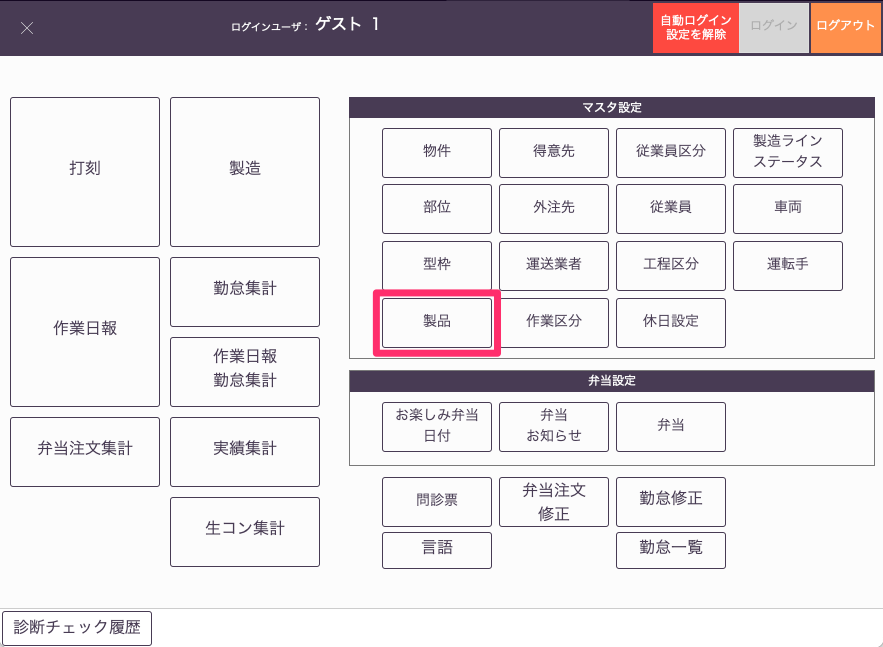
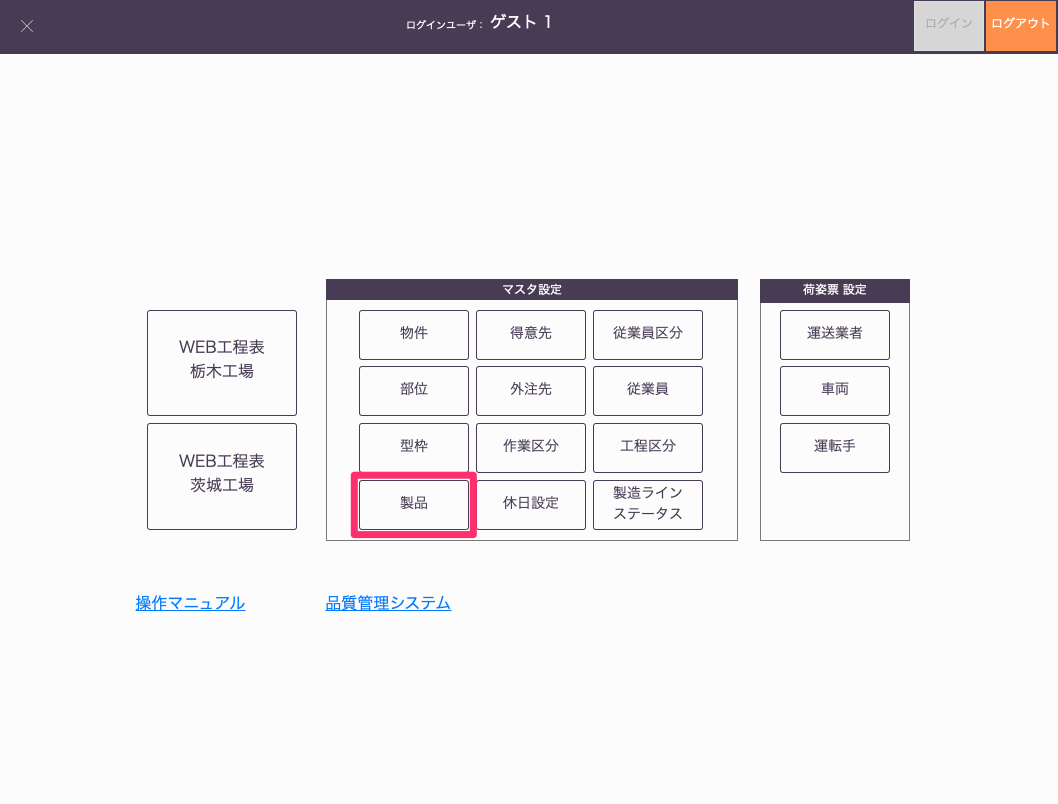
新機能の追加、画像差し替え

diff --git a/docs/process-control/index.md b/docs/process-control/index.md
@@ -21,7 +21,3 @@ has_children: true
 | 総打設量(㎥)               | その日[表示期間]打設予定の生産量の合計                                                                                                                                                                                                                               | 再計算しない   | 基幹システム：製品 > ㎥                                  |                                                                                    | 
 | 総型枠数(P)                | 当月に打設する物件の部位毎の型枠の総数(打設完了したものは減算していく)                                                                                                                                                                                               | 再計算しない   | 基幹システム：物件、部位、型枠                           |                                                                                    | 
 | 回転率                     | 総打設数 / 総型枠数（小数点第1位まで）                                                                                                                                                                                                                               | 再計算しない   |                                                          |                                                                                    | 
-| 計画人口合計<br>(人工)     | 物件の部位に設定されている目標人工 / Pの合計                                                                                                                                                                                                                         | 再計算しない   | 基幹システム：物件 > 物件に対する部位設定 > 目標人工 / P |                                                                                    | 
-| 配置予定人工<br>合計(人工) | 製造ライン毎の従業員(作業量)の総数                                                                                                                                                                                                                                   | 再計算しない   | 基幹システム：従業員 > 工程区分                          |                                                                                    | 
-| 実施人工合計<br>(人工)     | 組置人工数 + 打設人工数                                                                                                                                                                                                                                              | 常に再計算する | 基幹システム：作業日報 > 製造ライン > 打設、組置         |                                                                                    | 
-| 差異(人工)                 | ■未来(当日も含む)<br>・実施人工がある場合<br>　実施人工 ー 計画人工<br>・実施人工がない場合<br>　配置予定人工 ー 計画人工<br>■過去<br>・実施人工がある場合<br>　実施人工 ー 計画人工<br>・実施人工がない場合<br>　実施人工 ー 計画人工(実施人工が0のため、差異も0) | 常に再計算する |                                                          | 計画人工合計から20%離れたら強調表示<br>-n < -20 < 0 < 20 < n<br>青<薄青<白<薄赤<赤 | 

diff --git a/docs/product-registration/other-product/index.md b/docs/product-registration/other-product/index.md
@@ -16,7 +16,7 @@ has_children: false
 
 - 検索、クリア
     
-    検索条件欄で[物件]、[部位]を選択([マスタの事前設定]({% link docs/product-registration/preparation-product/index.md%})が必要)、[製品番号]を入力後「検索」を選択すると該当する製品が絞り込まれます。「クリア」を選択すると絞り込みが解除されます。
+    検索条件欄で[物件]、[部位]を選択([マスタの事前設定]({% link docs/product-registration/preparation-product/index.md%})が必要)、[製品番号]、[製作工場]、[図面番号]を入力後「検索」を選択すると該当する製品が絞り込まれます。「クリア」を選択すると絞り込みが解除されます。
     
 - 新規
     
@@ -28,20 +28,8 @@ has_children: false
     
 - 削除
     
-    削除したい製品([状態]項目が0)を選択して「削除」を選択すると、最右列の[状態]が0から1になります。削除した製品は、製品一覧の検索結果や各システムの参照対象から除外されます。データそのものは削除されません。
-    
-- 復帰
-    
-    復帰したい製品([状態]項目が1)を選択して「復帰」を選択すると、最右列の[状態]が1から0になります。復帰した製品は、再び各システムから製品情報が参照されるようになります。
-    
+    削除したい製品の選択列チェックボックスにチェックを入れた状態で「削除」を選択すると、一覧から非表示になります。削除した製品は、製品一覧の検索結果や各システムの参照対象から除外されます。データそのものは削除されません。
+
 - 履歴
     
-    過去の変更履歴(直接編集、新規、複製、削除、復帰、インポート 等)を確認できます。
-    
-
-### 項目
-
-- 状態
-    
-    削除されていない　→　 0　(「削除」が使用できる)  
-    削除されている　　→     1　(「復帰」が使用できる)
+    過去の変更履歴(直接編集、新規、複製、削除、インポート 等)を確認できます。

diff --git a/docs/concrete-control/pre-configuration/registration-holiday/index.md b/docs/concrete-control/pre-configuration/registration-holiday/index.md
@@ -13,15 +13,18 @@ has_children: false
 1. 「基幹システム」トップ画面の[マスタ設定]から「休日設定」を選択します。
 
     <table><tr><td>
-    <img src="../../../../assets/images/concrete-control/pre-configuration/registration-holiday/1.png" width="75%">
+    <img src="../../../../assets/images/process-control/pre-configuration/registration-holiday/1.png" width="70%">
     </td></tr></table>
 
-1. 年表記の左右のボタンを選択して、休日設定したい年度を表示します。
+    {: .note }
+    工場ごとに休日設定することができます。
+
+2. 年表記の左右のボタンを選択して、休日設定したい年度を表示します。
 
     <table><tr><td>
-    <img src="../../../../assets/images/concrete-control/pre-configuration/registration-holiday/2.png" width="100%">
+    <img src="../../../../assets/images/process-control/pre-configuration/registration-holiday/2.png" width="80%">
     </td></tr></table>
 
-1. 日付をクリックすることで、稼働日（白）と休日（赤）の設定をすることができます。
+3. 日付をクリックすることで、稼働日（白）と休日（赤）の設定をすることができます。
 
-1. 休日マスタの設定がweb工程表、コンクリート品質管理に反映されます。
+4. 休日マスタの設定がweb工程表、コンクリート品質管理に反映されます。

diff --git a/docs/process-control/function/login/index.md b/docs/process-control/function/login/index.md
@@ -13,7 +13,7 @@ has_children: false
 
 ### パターン1「品質管理システムからアクセス」
 
-品質管理システム：工程表（最下段左）
+品質管理システム：工程表（画面左下）
 
 <table><tr><td>
 <img src="../../../../assets/images/process-control/function/login/1.png" width="75%">
@@ -21,13 +21,10 @@ has_children: false
 
 ### パターン2「基幹システムからアクセス」
 
-基幹システム：製造>製造ライン（WEB）
+基幹システム：工程表（画面左）
 
 <table><tr><td>
 <img src="../../../../assets/images/process-control/function/login/2.png" width="75%">
-</td></tr></table>
-<table><tr><td>
-<img src="../../../../assets/images/process-control/function/login/3.png" width="75%">
 </td></tr></table>
 
 ### パターン3「URLからアクセス」
@@ -36,5 +33,5 @@ has_children: false
 （項目設定：[基幹システム_従業員マスタ]({% link docs/employee-registration/employee/index.md%})）
 
 <table><tr><td>
-<img src="../../../../assets/images/process-control/function/login/4.png" width="40%">
+<img src="../../../../assets/images/process-control/function/login/3.png" width="40%">
 </td></tr></table>

diff --git a/docs/process-control/function/hide-unhide/index.md b/docs/process-control/function/hide-unhide/index.md
@@ -1,0 +1,27 @@
+---
+layout: default
+title: 項目の表示/非表示
+parent: 機能
+grand_parent: 工程管理
+nav_order: 10
+has_children: false
+---
+
+# 項目の表示/非表示
+
+<br>
+1. [WEB工程表]画面右上のトグルボタンから項目ごとの表示/非表示の選択ができます。
+
+    <table><tr><td>
+    <img src="../../../../assets/images/process-control/function/hide-unhide/1.png" width="90%">
+    </td></tr></table>
+
+2. 非表示にしたい場合は、トグルボタンをオフにすることで非表示にすることができます。
+   ※ステータスと製品番号は表示固定で非表示にはできません。
+
+    <table><tr><td>
+    <img src="../../../../assets/images/process-control/function/hide-unhide/2.png" width="90%">
+    </td></tr></table>
+
+    {: .note }
+    この設定はブラウザごとに記憶され、次回起動時も保持されます。

diff --git a/CHANGELOG.md b/CHANGELOG.md
@@ -16,4 +16,8 @@ nav_order: 108
 
 ### 2025/08/31 
 
-- [OCR図面アップロード]({% link docs/quality-control/administrator/ocr-draw/index.md%})　追加
+- [OCR図面アップロード]({% link docs/quality-control/administrator/ocr-draw/index.md%})を追加
+- 製品一覧で製品の削除を一括で行えるように、削除した製品を一覧から非表示になるよう変更
+- 休日設定マスタで工場ごとに休日設定できるように変更
+- WEB工程表を工場ごとでURLを分けるように変更
+- WEB工程表の[項目の表示/非表示]({% link docs/process-control/function/hide-unhide/index.md%})を追加

diff --git a/docs/product-registration/edit-product/index.md b/docs/product-registration/edit-product/index.md
@@ -10,7 +10,7 @@ has_children: false
 
 <br>
 1. 「基幹システム」トップ画面の「製品」マスタを選択し、[製品一覧]画面を開きます。  
-変更したい製品を物件、部位で絞り込み、あるいは製品番号を入力して「検索」します。
+変更したい製品を物件、部位、製作工場で絞り込み、あるいは製品番号、図面番号を入力して「検索」します。
 
     <table><tr><td>
     <img src="../../../assets/images/product-registration/edit-product/1.png" width="80%">

diff --git a/docs/process-control/function/coloring-target/index.md b/docs/process-control/function/coloring-target/index.md
@@ -10,7 +10,7 @@ has_children: false
 # 色付け対象の選択
 
 <br>
-1. [WEB工程表]画面上右上の「≡」アイコンから色付け対象の選択ができます。
+1. [WEB工程表]画面右上の「≡」アイコンから色付け対象の選択ができます。
 
     <table><tr><td>
     <img src="../../../../assets/images/process-control/function/coloring-target/1.png" width="90%">

diff --git a/docs/process-control/pre-configuration/registration-holiday/index.md b/docs/process-control/pre-configuration/registration-holiday/index.md
@@ -16,6 +16,9 @@ has_children: false
     <img src="../../../../assets/images/process-control/pre-configuration/registration-holiday/1.png" width="70%">
     </td></tr></table>
 
+    {: .note }
+    工場ごとに休日設定することができます。
+
 2. 年表記の左右のボタンを選択して、休日設定したい年度を表示します。
 
     <table><tr><td>

diff --git a/docs/process-control/function/status/index.md b/docs/process-control/function/status/index.md
@@ -3,7 +3,7 @@ layout: default
 title: ステータスの変更
 parent: 機能
 grand_parent: 工程管理
-nav_order: 11
+nav_order: 12
 has_children: false
 ---
 

diff --git a/docs/process-control/function/folding/index.md b/docs/process-control/function/folding/index.md
@@ -3,7 +3,7 @@ layout: default
 title: 折りたたみ機能
 parent: 機能
 grand_parent: 工程管理
-nav_order: 10
+nav_order: 11
 has_children: false
 ---
 

diff --git a/docs/process-control/function/remarks/index.md b/docs/process-control/function/remarks/index.md
@@ -3,7 +3,7 @@ layout: default
 title: 備考の記入
 parent: 機能
 grand_parent: 工程管理
-nav_order: 12
+nav_order: 13
 has_children: false
 ---
 
